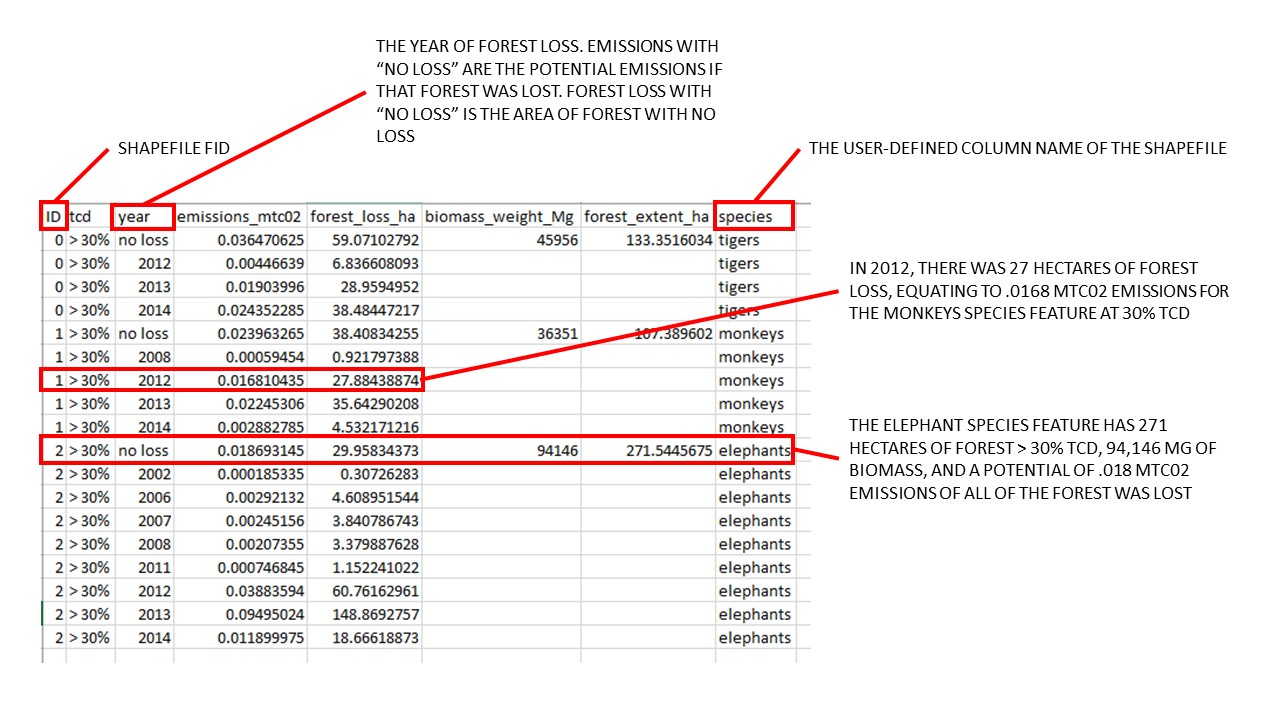
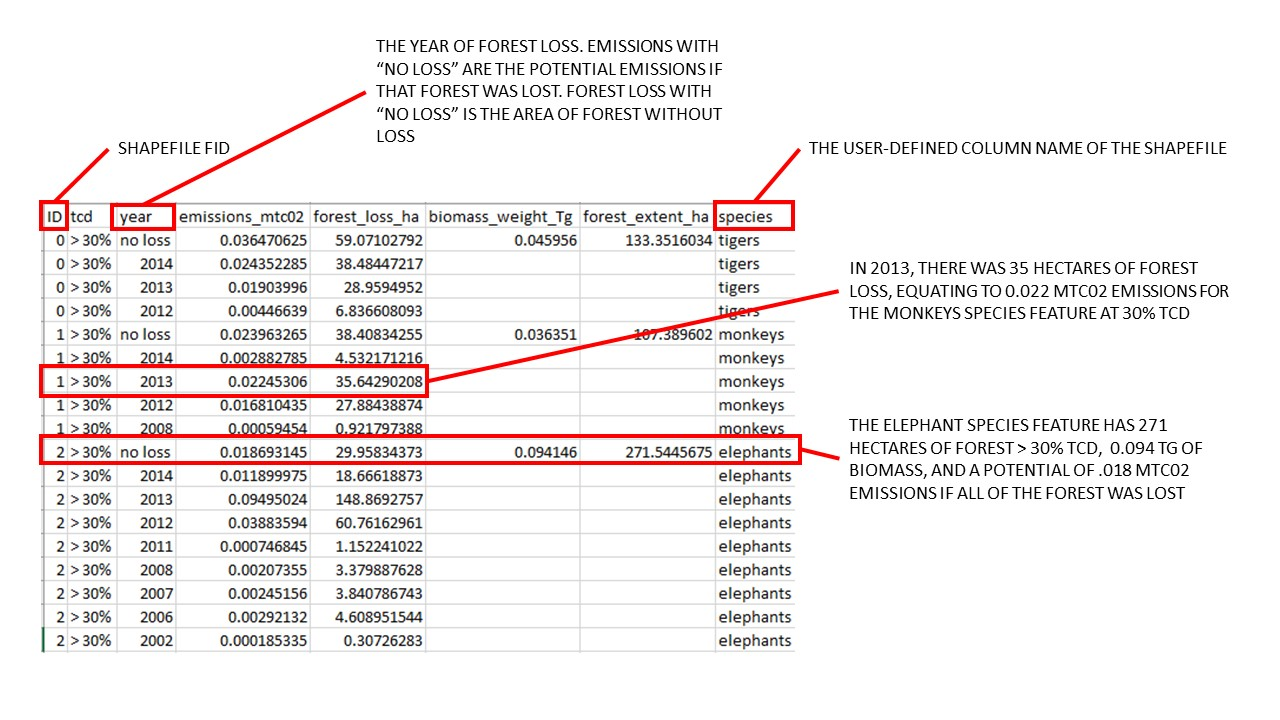
changed biomass weight from Mg to Tg, updated csv walkthrough example to reflect that

diff --git a/data_types/layer.py b/data_types/layer.py
@@ -59,11 +59,11 @@ class Layer(object):
             if item == 'forest_extent':
                 analysis_names[index] = 'forest_extent_ha'
             if item == 'biomass_weight':
-                analysis_names[index] = 'biomass_weight_Mg'
+                analysis_names[index] = 'biomass_weight_Tg'
 
         self.forest_loss['forest_loss_ha'] = self.forest_loss['forest_loss']/10000
         self.forest_extent['forest_extent_ha'] = self.forest_extent['forest_extent']/10000
-        self.biomass_weight['biomass_weight_Mg'] = self.biomass_weight['biomass_weight']
+        self.biomass_weight['biomass_weight_Tg'] = self.biomass_weight['biomass_weight']/1000000
 
         # join all the data frames together on Value and ID
         merged = pd.concat([df.set_index(['VALUE', 'ID']) for df in df_list], axis=1)
